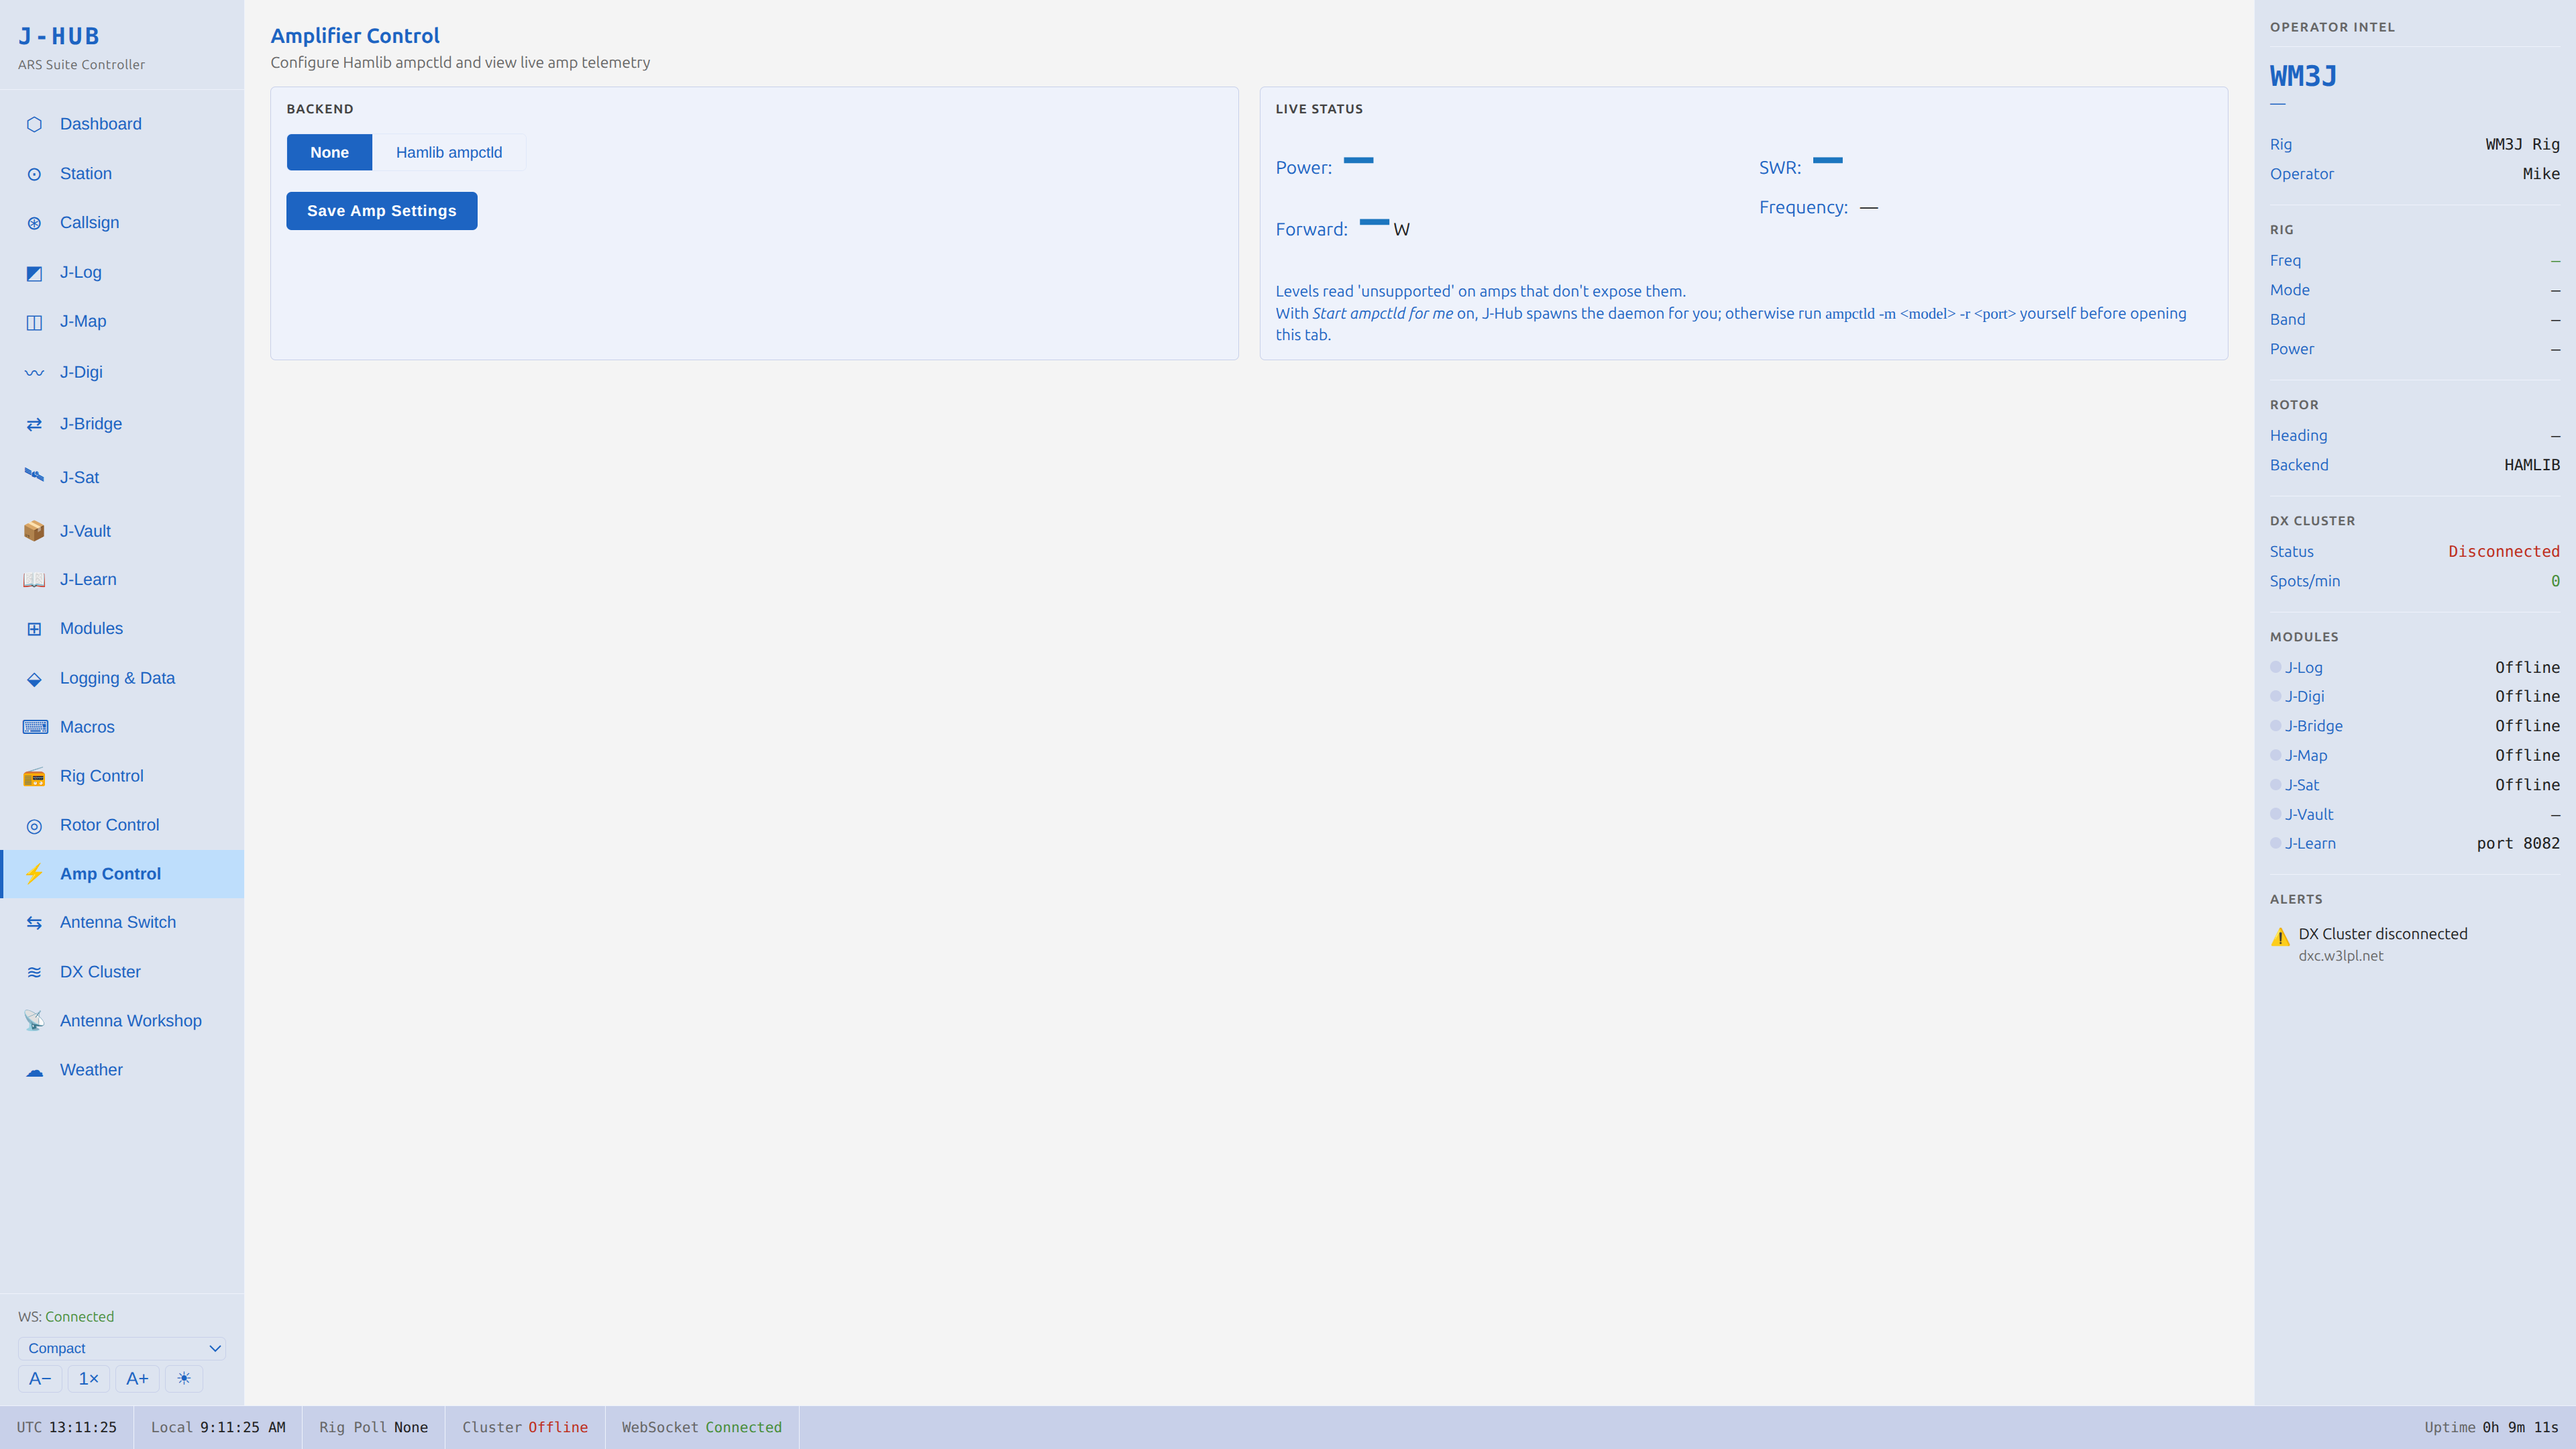
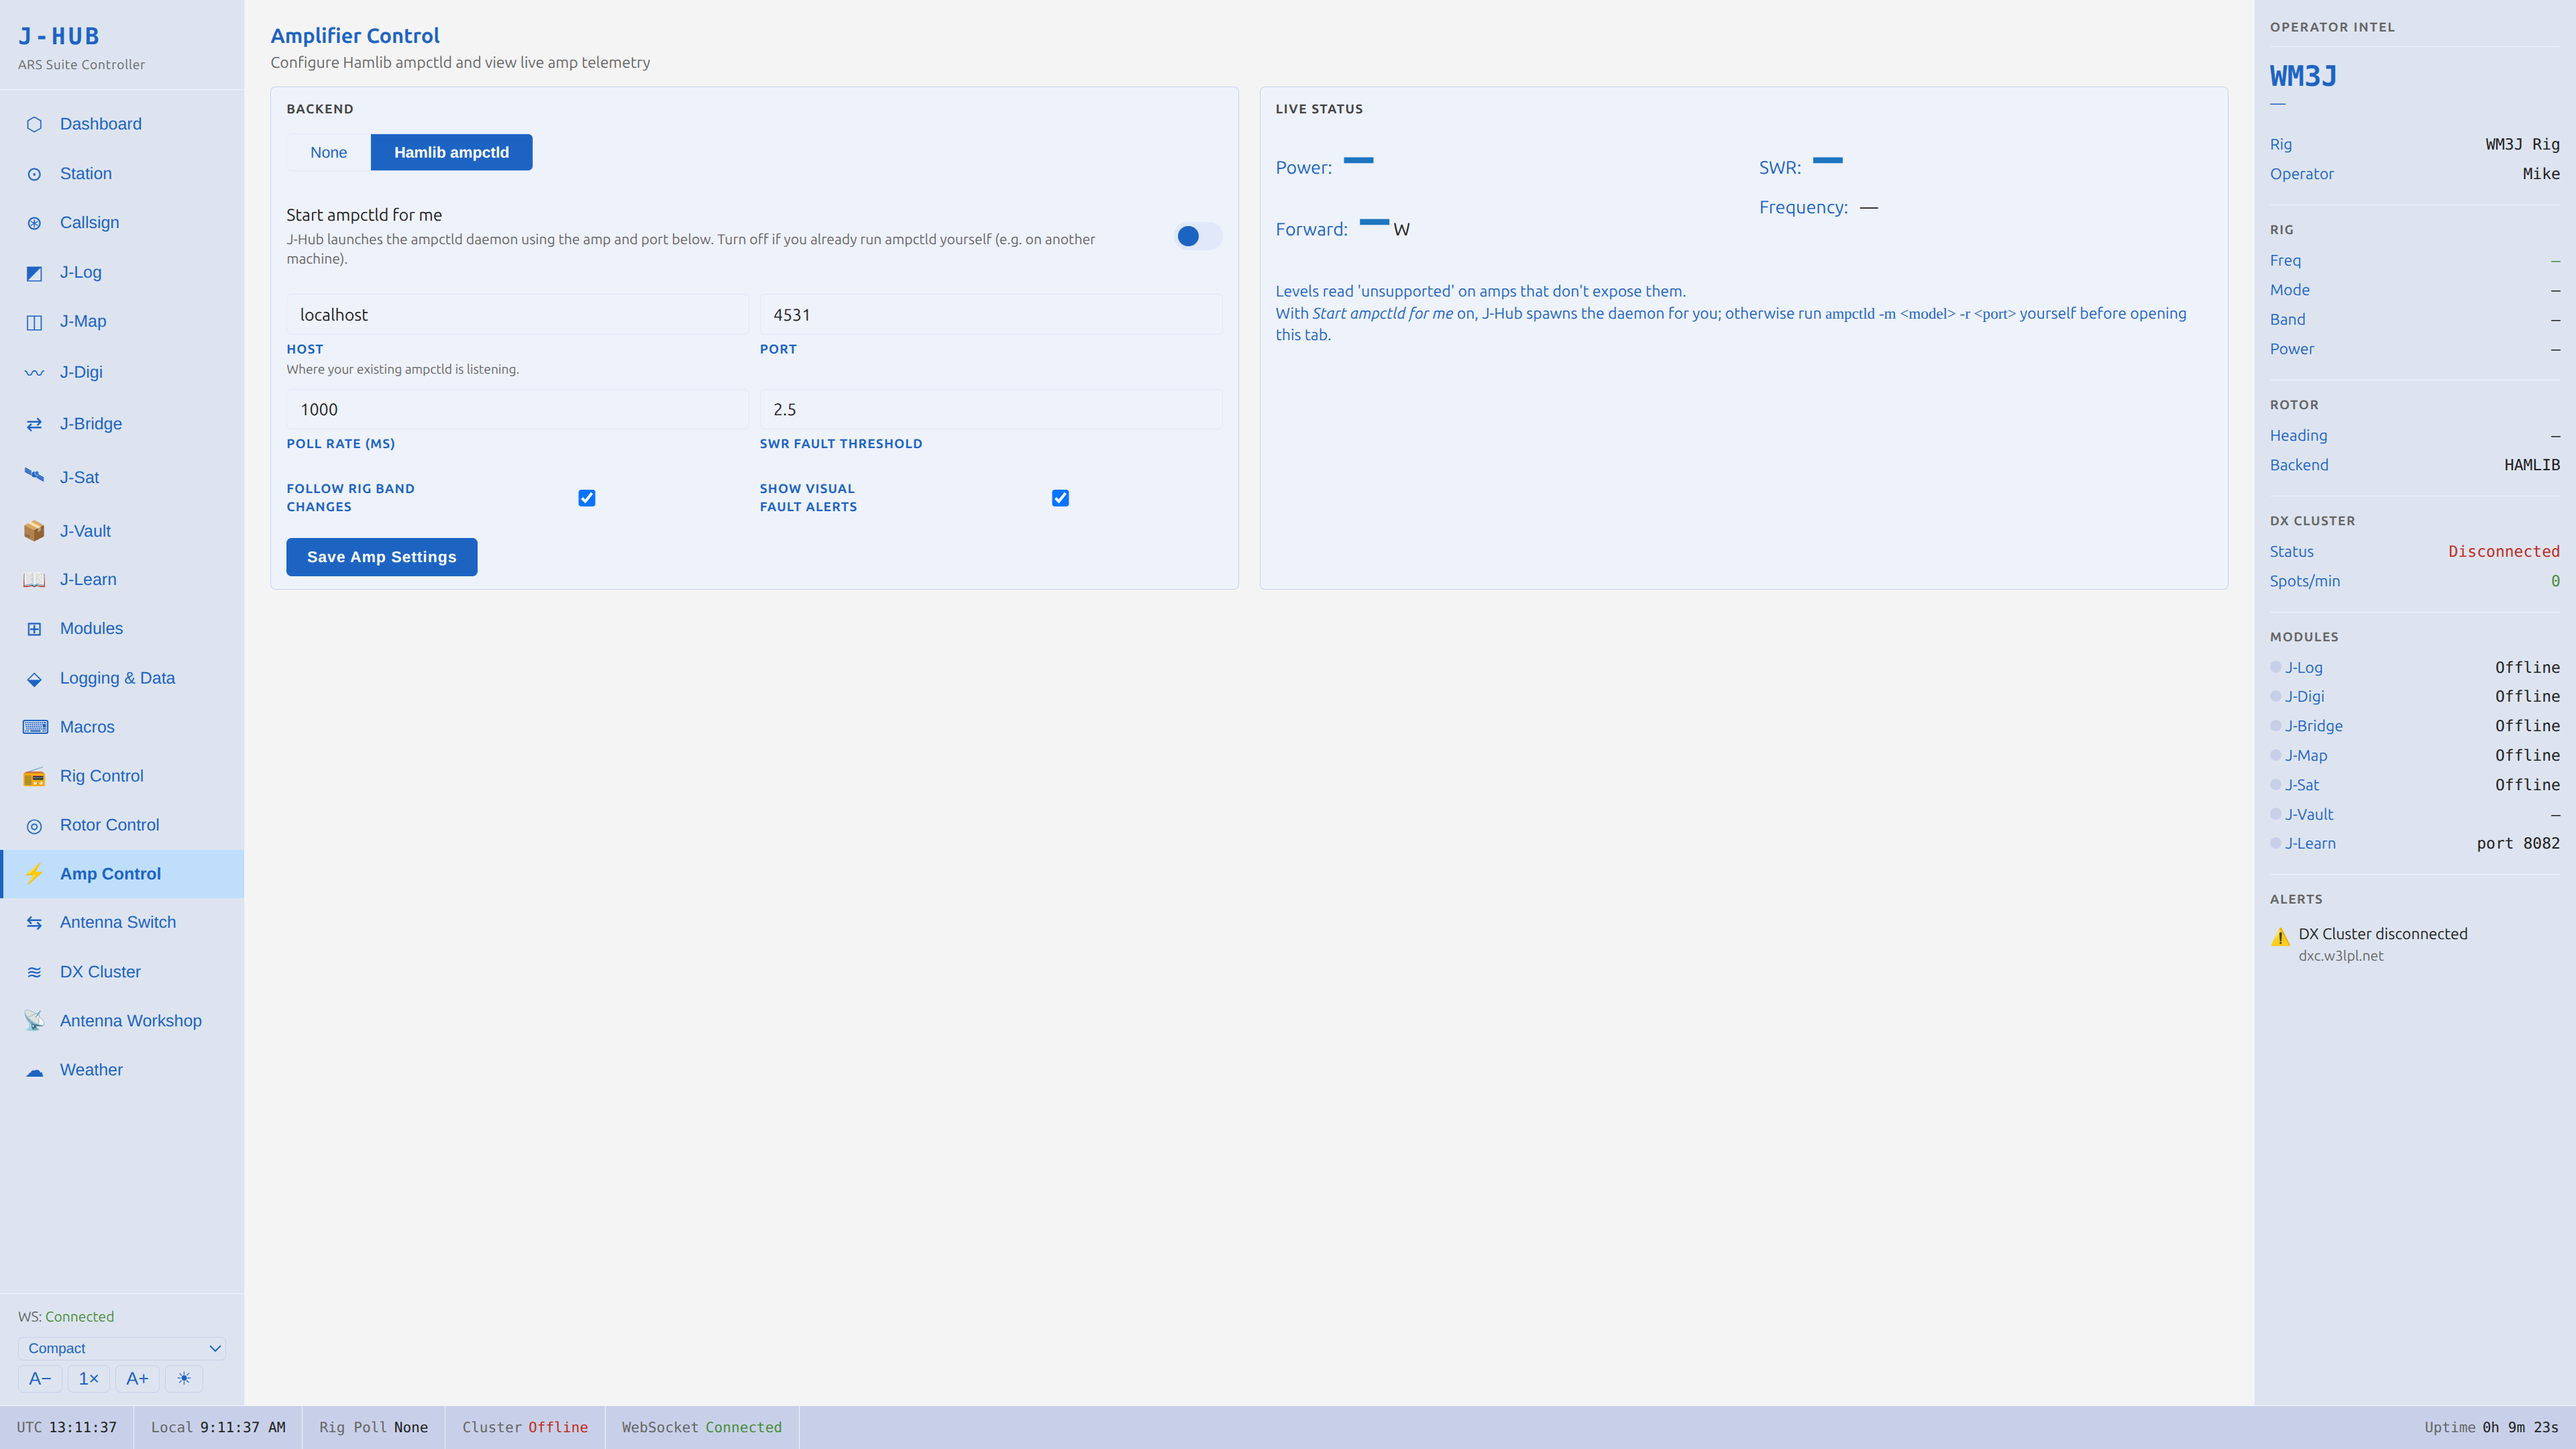
docs(USER_GUIDE): add Antenna Switch image + correct Amp captures
Completes d5dc008 (which only removed jhub-amp-3.png because a stray
pathspec aborted the add): stage the actual content — jhub-antenna.png
(the real Automatic Antenna Switching tab), the corrected jhub-amp.png /
jhub-amp-2.png (real Amp Control captures), and the USER_GUIDE edits
restoring the Antenna Switch figure and dropping the extra amp ref.

diff --git a/USER_GUIDE.md b/USER_GUIDE.md
@@ -375,7 +375,6 @@ Backend + manual control for an az (or az/el) rotator. Stored under `rotor`.
 
 ![J-Hub — Amp Control](docs/images/jhub-amp.png)
 ![J-Hub — Amp Control (cont.)](docs/images/jhub-amp-2.png)
-![J-Hub — Amp Control (cont.)](docs/images/jhub-amp-3.png)
 
 Hamlib `ampctld` backend + live amp telemetry. Stored under `amp`.
 
@@ -394,7 +393,7 @@ Hamlib `ampctld` backend + live amp telemetry. Stored under `amp`.
 
 ### 4.6 Antenna — automatic antenna switching
 
-> 📷 *Antenna Switch screenshot pending.*
+![J-Hub — Antenna Switch](docs/images/jhub-antenna.png)
 
 Drives serial relay switches from band / mode / rotor heading. Stored under `antenna`.
 
